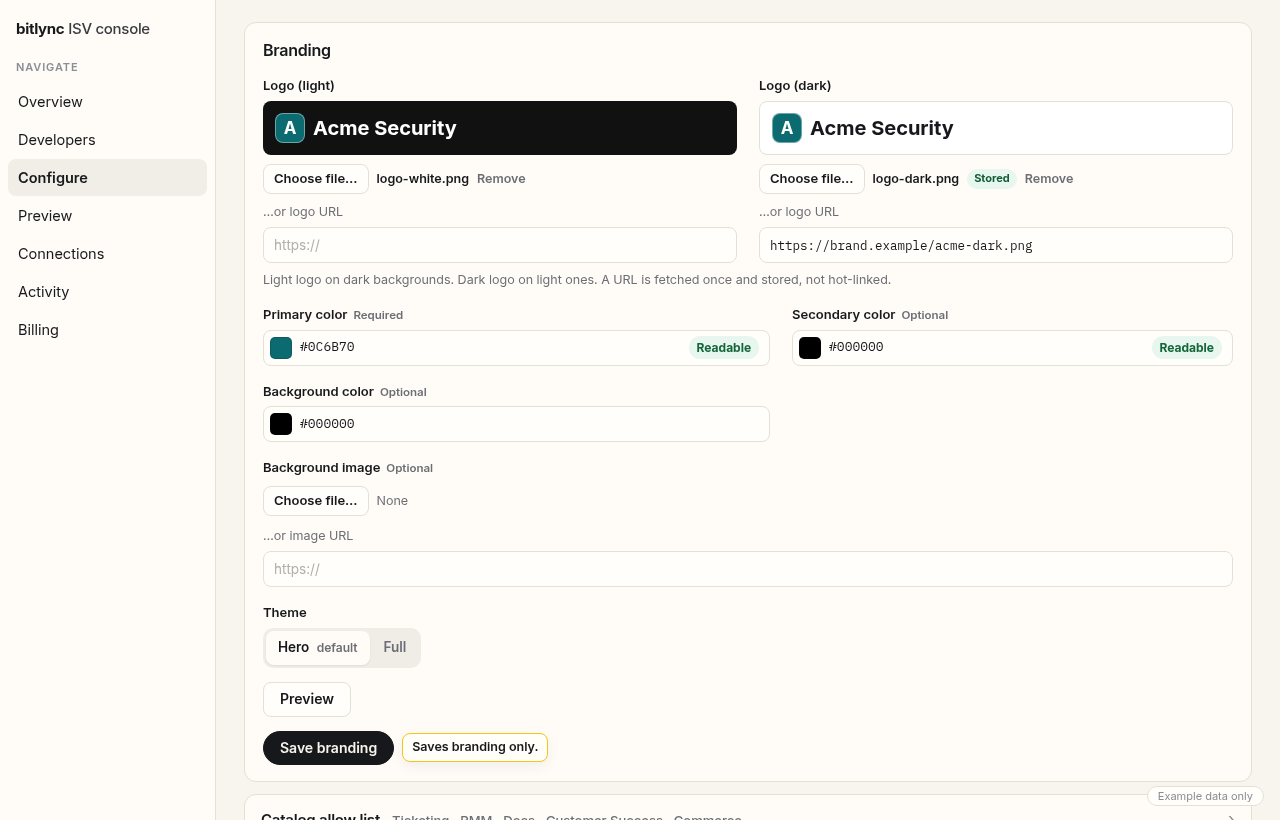
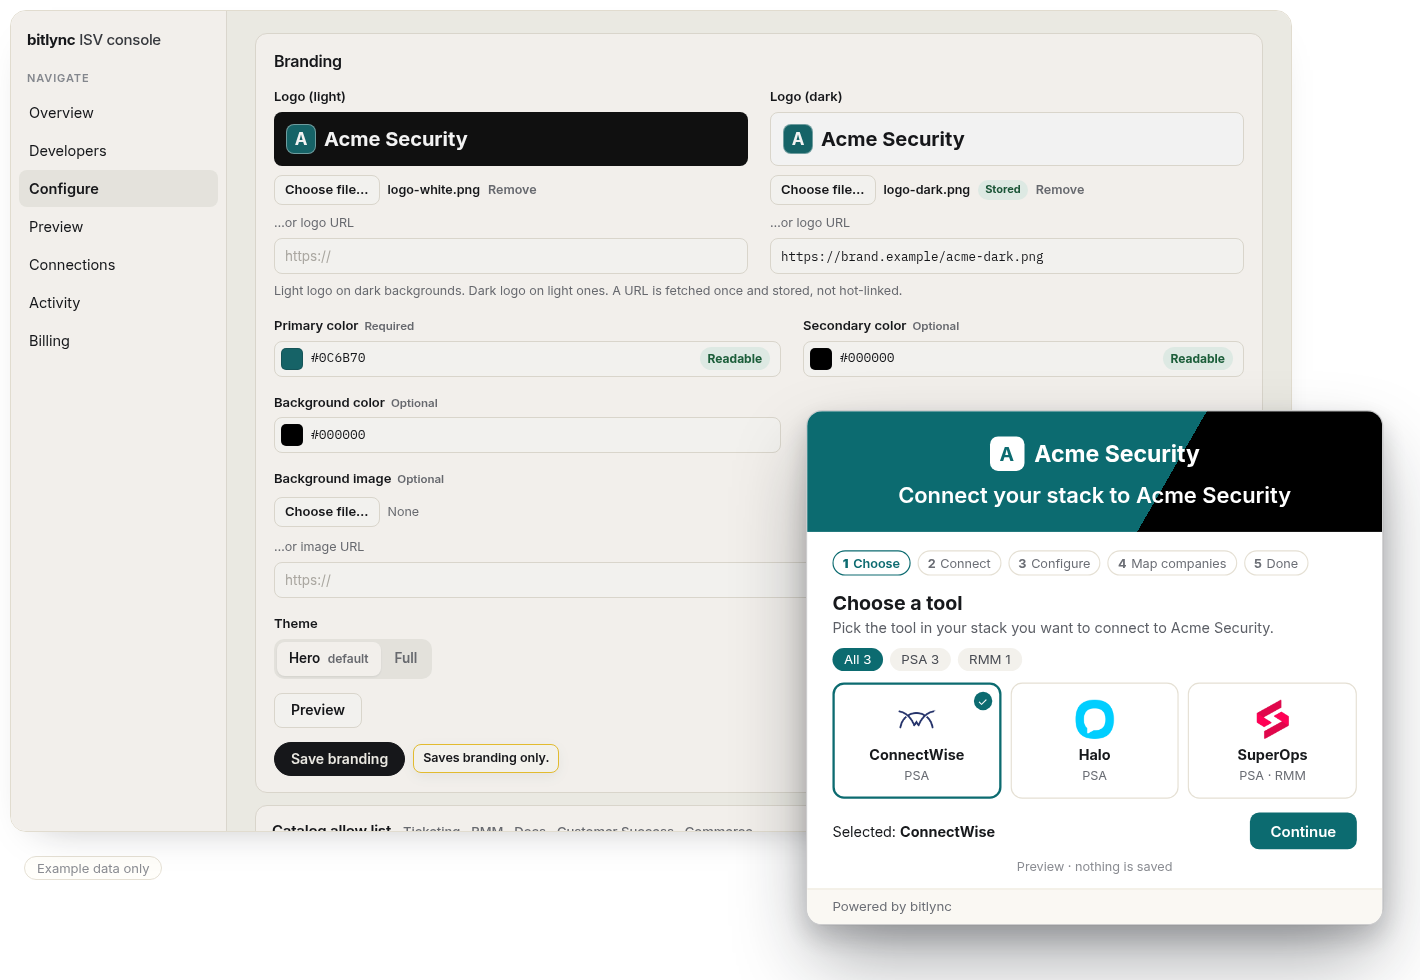
preview: Product page Branding art, layered composite with the MSP-facing Choose screen (#253)

diff --git a/preview/index.html b/preview/index.html
@@ -973,7 +973,7 @@ body.docs footer{border-top-color:var(--dline);color:var(--dmute)}
 @media(max-width:820px){#page-product .msp-collage .msp-tile{--rot:0deg!important;margin-top:0!important}}
 @media(prefers-reduced-motion:reduce){#page-product .msp-tile .tilt{transition:none}}
 
-</style>
+.ui.brand-stack{background:none!important;border:0!important;box-shadow:none!important;overflow:visible!important;border-radius:0!important}.ui img.brand-front{display:none!important}@media (max-width:640px){.ui.brand-stack picture img{border:1px solid #E1DCCF;border-radius:12px;filter:brightness(.96)}.ui img.brand-front{display:block!important;width:84%;margin:-20% 0 0 auto;position:relative;border-radius:12px;border:1px solid rgba(23,24,28,.22);box-shadow:0 22px 44px -8px rgba(20,24,30,.42),0 6px 14px rgba(20,24,30,.18)}}</style>
 </head>
 <body>
 <a class="skip" href="#page-home">Skip to content</a>
@@ -1927,7 +1927,7 @@ body.docs footer{border-top-color:var(--dline);color:var(--dmute)}
 <a class="msp-cue" href="#s1" aria-label="Scroll down"><svg width="22" height="22" viewBox="0 0 22 22" aria-hidden="true" focusable="false"><path d="M5.5 8.5l5.5 5.5 5.5-5.5" fill="none" stroke="currentColor" stroke-width="1.5" stroke-linecap="round" stroke-linejoin="round"/></svg></a></section>
 <section class="pad band" id="s1"><div class="wrap"><div class="vsplit rev">
 <div class="scopy msp-rise"><span class="vtag">Branding</span><h2>Your brand throughout.</h2><p class="sub">The screens your MSPs see use your logo, colors and theme. Check the preview, then save and publish.</p></div>
-<div class="msp-rise lag msp-shot"><div class="ui"><img src="assets/prod_branding.png" srcset="assets/prod_branding.png 1x, assets/prod_branding@2x.png 2x" alt="Branding settings in the ISV console"></div></div></div></div></section><section class="pad band" id="s2"><div class="wrap"><div class="vsplit">
+<div class="msp-rise lag msp-shot"><div class="ui brand-stack"><picture><source media="(max-width:640px)" srcset="assets/prod_branding_back.png 1x, assets/prod_branding_back@2x.png 2x"><img src="assets/prod_branding.png" srcset="assets/prod_branding.png 1x, assets/prod_branding@2x.png 2x" alt="Branding settings in the ISV console, with the Connect screen your MSPs see in your brand"></picture><img class="brand-front" src="assets/prod_branding_msp.png" srcset="assets/prod_branding_msp.png 1x, assets/prod_branding_msp@2x.png 2x" alt="" aria-hidden="true"></div></div></div></div></section><section class="pad band" id="s2"><div class="wrap"><div class="vsplit">
 <div class="scopy msp-rise"><span class="vtag">Connect</span><h2>One Connect flow.</h2><p class="sub">Your MSPs connect their stack in a few steps, with instructions showing exactly where to find each value. You don't build or maintain setup docs for those integrations.</p></div>
 <div class="msp-rise lag msp-shot"><div class="ui"><img src="assets/prod_connect_keys.png" srcset="assets/prod_connect_keys.png 1x, assets/prod_connect_keys@2x.png 2x" alt="Connect step: stack keys"></div></div></div></div></section><section class="pad band" id="s3"><div class="wrap"><div class="vsplit rev">
 <div class="scopy msp-rise"><span class="vtag">Least privilege</span><h2>Permissions checked before they connect.</h2><p class="sub">Bitlync checks the MSP's keys against the permissions you require before they can finish connecting. If something is missing, it shows exactly where to fix it in their stack, so setup mistakes don't become tickets for your support team.</p><ul class="mlist"><li>Ask only for what you need. Riskier writes start off, and Bitlync refuses deletes.</li><li>Step-by-step instructions show MSPs where to set the right permissions.</li><li>If a permission is lost later, the MSP gets a connection problem alert.</li></ul></div>
